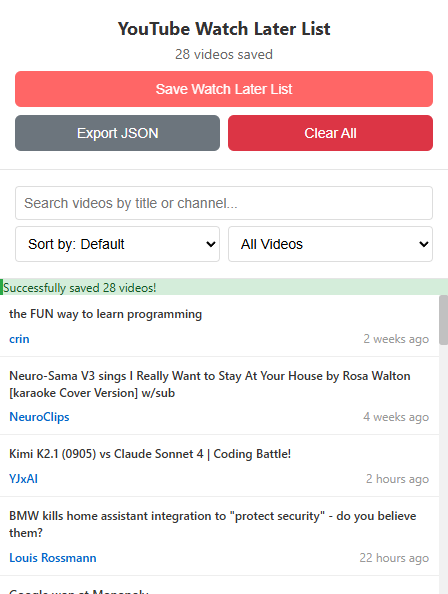
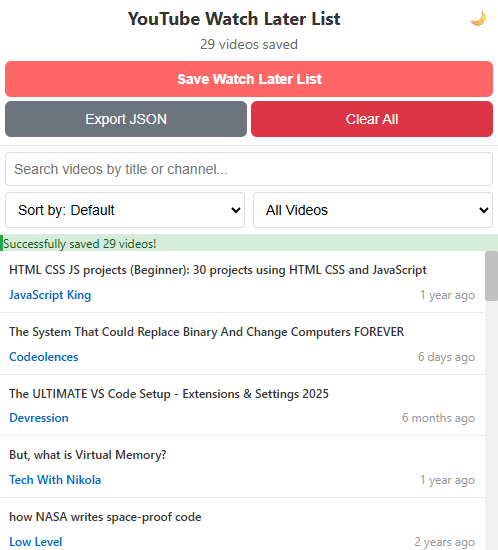
Added theme color switch, replaced preview

diff --git a/popup.js b/popup.js
@@ -8,12 +8,14 @@ document.addEventListener('DOMContentLoaded', () => {
   const searchInput = document.getElementById('searchInput');
   const sortSelect = document.getElementById('sortSelect');
   const filterSelect = document.getElementById('filterSelect');
+  const themeToggle = document.getElementById('themeToggle');
 
   let allVideos = [];
   let filteredVideos = [];
 
   // Load and display saved list on popup open
   loadSavedVideos();
+  loadTheme();
 
   // Event listeners
   saveBtn.addEventListener('click', handleSaveClick);
@@ -22,6 +24,7 @@ document.addEventListener('DOMContentLoaded', () => {
   searchInput.addEventListener('input', applyFiltersAndSort);
   sortSelect.addEventListener('change', applyFiltersAndSort);
   filterSelect.addEventListener('change', applyFiltersAndSort);
+  themeToggle.addEventListener('click', toggleTheme);
 
   async function loadSavedVideos() {
     try {
@@ -32,6 +35,73 @@ document.addEventListener('DOMContentLoaded', () => {
     } catch (error) {
       console.error('Error loading saved videos:', error);
       showStatus('Error loading saved videos', 'error');
+    }
+  }
+
+  async function loadTheme() {
+    try {
+      const result = await chrome.storage.local.get(['theme']);
+      const theme = result.theme || 'light';
+      console.log('DEBUG: Loading theme from storage:', theme);
+      if (theme === 'dark') {
+        applyDarkMode();
+      } else {
+        applyLightMode();
+      }
+      updateThemeIcon(theme);
+      updateThemeAriaPressed(theme);
+      applyFiltersAndSort();
+    } catch (error) {
+      console.error('Error loading theme:', error);
+    }
+  }
+
+  function toggleTheme() {
+    const currentTheme = document.body.classList.contains('dark-mode') ? 'dark' : 'light';
+    const newTheme = currentTheme === 'light' ? 'dark' : 'light';
+    
+    if (newTheme === 'dark') {
+      applyDarkMode();
+    } else {
+      applyLightMode();
+    }
+    
+    updateThemeIcon(newTheme);
+    updateThemeAriaPressed(newTheme);
+    
+    // Save theme preference
+    chrome.storage.local.set({ 'theme': newTheme });
+    
+    applyFiltersAndSort();
+  }
+
+  function updateThemeAriaPressed(theme) {
+    const toggleButton = document.getElementById('themeToggle');
+    if (toggleButton) {
+      toggleButton.setAttribute('aria-pressed', theme === 'dark');
+    }
+  }
+
+  function applyDarkMode() {
+    document.body.classList.add('dark-mode');
+    document.querySelector('.header').classList.add('dark-mode');
+    document.querySelector('.filters').classList.add('dark-mode');
+    document.querySelectorAll('.form-control').forEach(input => input.classList.add('dark-mode'));
+    document.querySelector('.content').classList.add('dark-mode');
+  }
+
+  function applyLightMode() {
+    document.body.classList.remove('dark-mode');
+    document.querySelector('.header').classList.remove('dark-mode');
+    document.querySelector('.filters').classList.remove('dark-mode');
+    document.querySelectorAll('.form-control').forEach(input => input.classList.remove('dark-mode'));
+    document.querySelector('.content').classList.remove('dark-mode');
+  }
+
+  function updateThemeIcon(theme) {
+    const icon = themeToggle.querySelector('.theme-icon');
+    if (icon) {
+      icon.textContent = theme === 'dark' ? '☀' : '🌙';
     }
   }
 
@@ -324,7 +394,7 @@ document.addEventListener('DOMContentLoaded', () => {
     }
   }
 
-  // Function to display the saved video list in the popup
+  // Display the saved video list in the popup
   function displayList(videos) {
     const list = document.getElementById('savedList');
     list.innerHTML = '';
@@ -337,26 +407,45 @@ document.addEventListener('DOMContentLoaded', () => {
       return;
     }
 
+    const isDarkMode = document.body.classList.contains('dark-mode') || 
+                      (document.body.style.backgroundColor === 'rgb(26, 26, 26)' || 
+                       document.body.style.backgroundColor === '#1a1a1a');
+
     videos.forEach((video, index) => {
       const li = document.createElement('li');
       li.className = 'video-item';
+      if (isDarkMode) {
+        li.classList.add('dark-mode');
+      }
 
       const titleEl = document.createElement('div');
       titleEl.className = 'video-title';
       titleEl.textContent = video.title;
+      if (isDarkMode) {
+        titleEl.classList.add('dark-mode');
+      }
       li.appendChild(titleEl);
 
       const metaEl = document.createElement('div');
       metaEl.className = 'video-meta';
+      if (isDarkMode) {
+        metaEl.classList.add('dark-mode');
+      }
       
       const channelEl = document.createElement('span');
       channelEl.className = 'video-channel';
       channelEl.textContent = video.channel;
+      if (isDarkMode) {
+        channelEl.classList.add('dark-mode');
+      }
       metaEl.appendChild(channelEl);
 
       const dateEl = document.createElement('span');
       dateEl.className = 'video-date';
       dateEl.textContent = video.date;
+      if (isDarkMode) {
+        dateEl.classList.add('dark-mode');
+      }
       metaEl.appendChild(dateEl);
 
       li.appendChild(metaEl);

diff --git a/popup.html b/popup.html
@@ -10,8 +10,8 @@
     }
 
     body {
-      width: 450px;
-      min-height: 500;
+      width: 500px;
+      min-height: 520px;
       padding: 0;
       margin: 0;
       font-family: 'Segoe UI', Tahoma, Geneva, Verdana, sans-serif;
@@ -23,12 +23,23 @@
       background: rgba(255, 255, 255, 0.95);
       padding: 6px;
       border-bottom: 1px solid rgba(0, 0, 0, 0.1);
+      display: flex;
+      flex-direction: column;
+    }
+
+    .header-content {
+      display: flex;
+      justify-content: center;
+      align-items: center;
+      width: 100%;
+      margin-bottom: 4px;
     }
 
     .header h1 {
-      margin: 0 0 4px 0;
+      margin: 0;
       font-size: 18px;
       color: #333;
+      flex: 1;
       text-align: center;
     }
 
@@ -270,11 +281,140 @@
     .content::-webkit-scrollbar-thumb:hover {
       background: #a8a8a8;
     }
+
+    /* Dark Mode Styles */
+    body.dark-mode {
+      background: #1a1a1a;
+      color: #e0e0e0;
+    }
+
+    .header.dark-mode {
+      background: #2d2d2d;
+      color: #e0e0e0;
+    }
+
+    .header.dark-mode h1 {
+      color: #e0e0e0;
+    }
+
+    .video-count.dark-mode {
+      color: #b0b0b0;
+    }
+
+    .filters.dark-mode {
+      background: #2d2d2d;
+      border-bottom: 1px solid #404040;
+    }
+
+    .form-control.dark-mode {
+      background: #3d3d3d;
+      color: #e0e0e0;
+      border: 1px solid #505050;
+    }
+
+    .form-control.dark-mode:focus {
+      border-color: #4d94ff;
+      box-shadow: 0 0 0 2px rgba(77, 148, 255, 0.25);
+    }
+
+    .content.dark-mode {
+      background: #2d2d2d;
+    }
+
+    .video-item.dark-mode {
+      border-bottom: 1px solid #404040;
+      background-color: #2d2d2d;
+    }
+
+    .video-item.dark-mode:hover {
+      background-color: #3a3a3a;
+    }
+
+    .video-title.dark-mode {
+      color: #e0e0e0;
+    }
+
+    .video-meta.dark-mode {
+      color: #b0b0b0;
+    }
+
+    .video-channel.dark-mode {
+      color: #6d9bff;
+    }
+
+    .video-date.dark-mode {
+      color: #888;
+    }
+
+    .no-videos.dark-mode {
+      color: #b0b0b0;
+    }
+
+    .status.dark-mode {
+      background: #3a3a3a;
+      color: #e0e0e0;
+      border-left-color: #4d94ff;
+    }
+
+    .status-success.dark-mode {
+      background: #2d5a3d;
+      color: #e0f0e0;
+      border-left-color: #28a745;
+    }
+
+    .status-error.dark-mode {
+      background: #5a2d2d;
+      color: #f0e0e0;
+      border-left-color: #dc3545;
+    }
+
+    .status-warning.dark-mode {
+      background: #5a522d;
+      color: #f0f0e0;
+      border-left-color: #ffc107;
+    }
+
+    .status-loading.dark-mode {
+      background: #5a522d;
+      color: #f0f0e0;
+      border-left-color: #ffc107;
+    }
+
+    .theme-toggle-btn {
+      background: none;
+      border: none;
+      cursor: pointer;
+      padding: 4px;
+      margin-left: auto;
+      border-radius: 4px;
+      transition: background-color 0.2s ease;
+      display: inline-flex;
+      align-items: center;
+      justify-content: center;
+    }
+
+    .theme-toggle-btn:hover {
+      background-color: rgba(255, 255, 255, 0.2);
+    }
+
+    .dark-mode .theme-toggle-btn:hover {
+      background-color: rgba(0, 0, 0, 0.4);
+    }
+
+    .theme-icon {
+      font-size: 16px;
+      line-height: 1;
+    }
   </style>
 </head>
 <body>
   <div class="header">
-    <h1>YouTube Watch Later List</h1>
+    <div class="header-content">
+      <h1>YouTube Watch Later List</h1>
+      <button id="themeToggle" class="theme-toggle-btn" aria-label="Toggle theme" aria-pressed="false">
+        <span class="theme-icon">🌙</span>
+      </button>
+    </div>
     <div id="videoCount" class="video-count">Loading...</div>
     
     <div class="controls">
